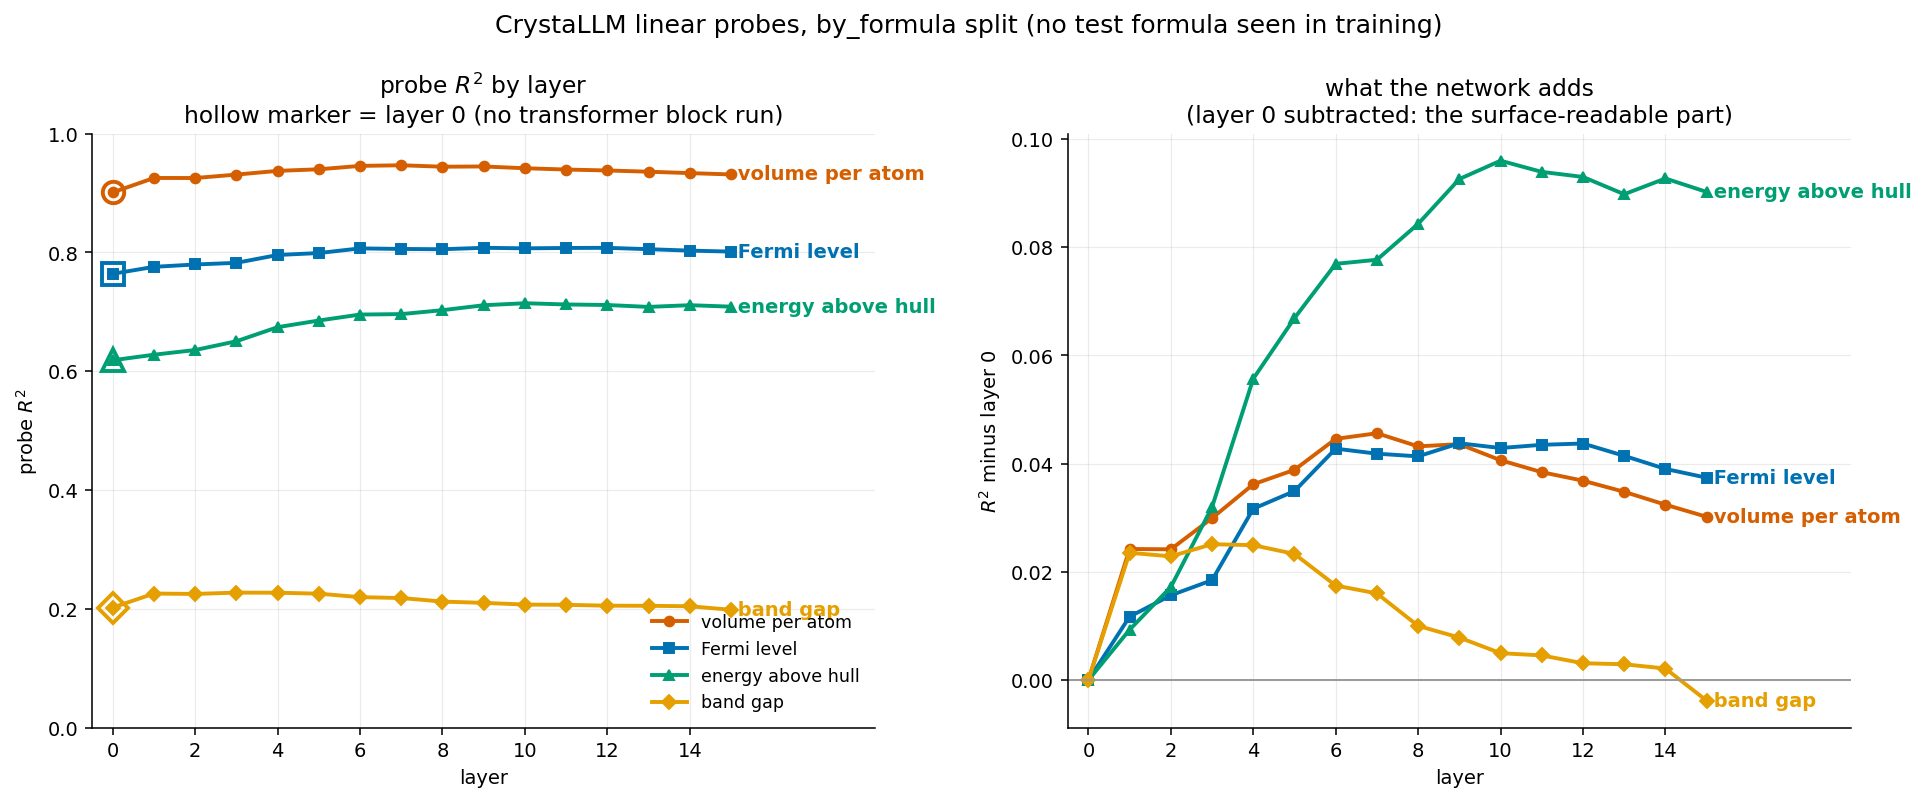
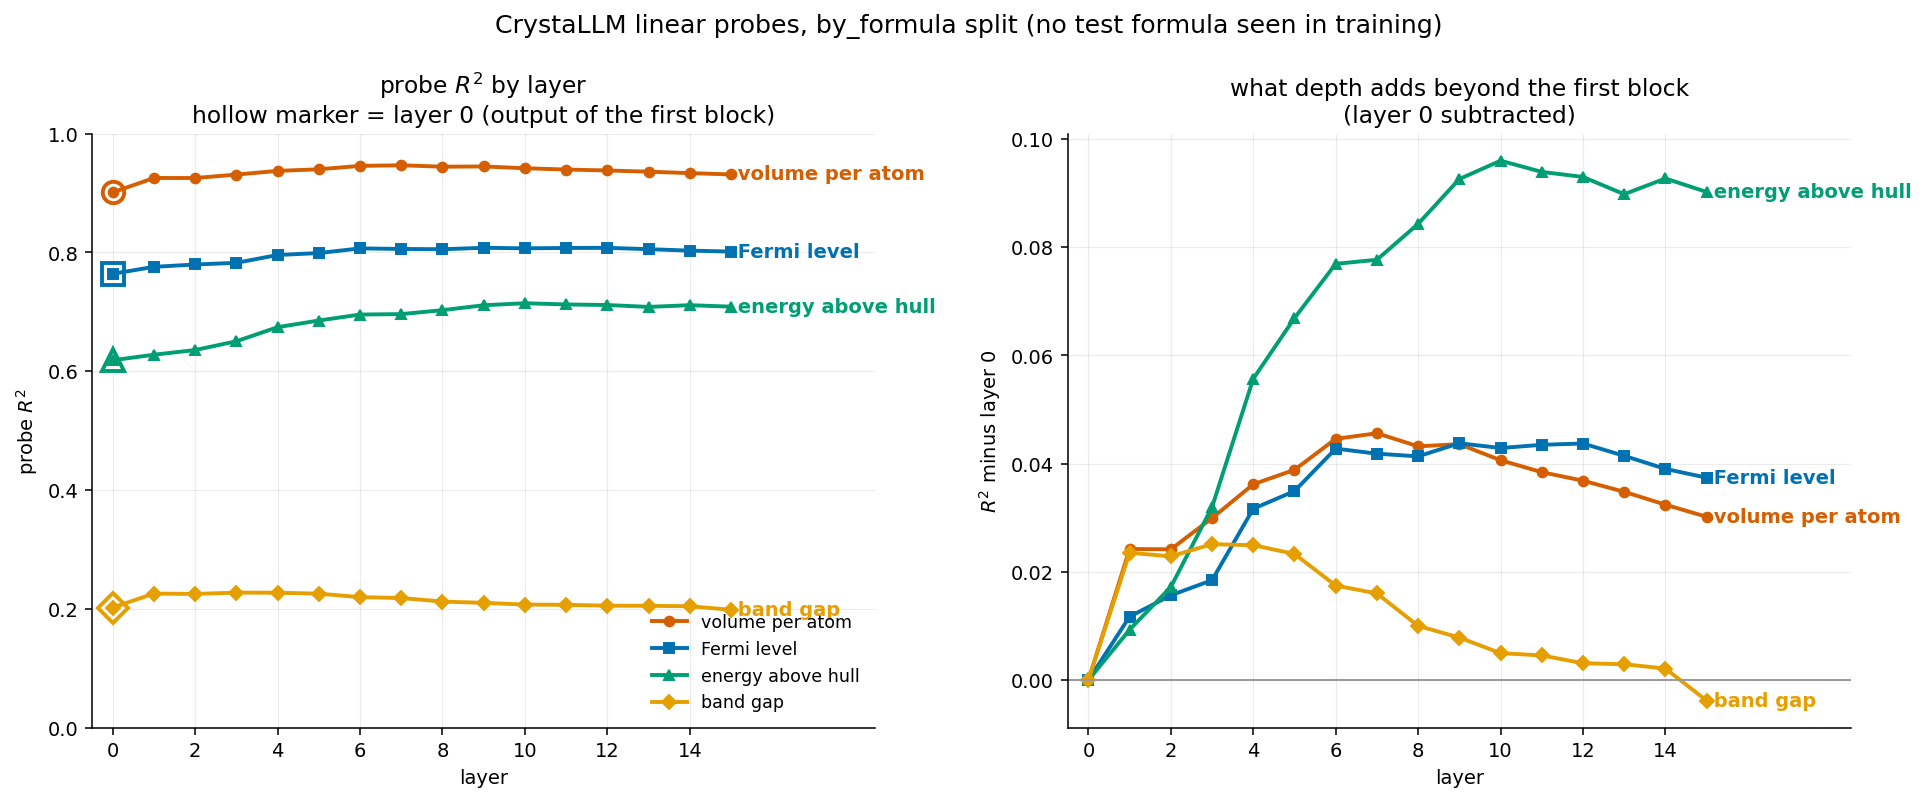
Fix the layer-0 claim; density parses exactly from the CIF text
Layer L is the output of block L, not a pre-block embedding. Density is
cell_volume / n_atoms and both are printed in the CIF: a plain parse gets
R^2 = 1.000000 on 29,832 CIFs, so the probe's 0.947 is not evidence of a
learned representation. Says nothing about whether one exists, or about
steerability. Specific to density; the DFT labels have no parse ceiling.

Claude-Session: https://claude.ai/code/session_01EpX8vDJ69TxFi8fcSiWVWg

Changed region(s): [[0.6234, 0.0936, 0.9039, 0.1561], [0.0935, 0.1248, 0.4052, 0.1561]]

diff --git a/scripts/plots/plot_property_probe_layers.py b/scripts/plots/plot_property_probe_layers.py
@@ -4,10 +4,14 @@
 Reads the CSVs that property_probe.py wrote and draws the depth curves side by side.
 Scored on `by_formula`, so no test formula appeared in training.
 
-Left panel is the raw R^2. Read it against the layer-0 marker, not against zero: layer 0
-is token embeddings plus position with no transformer block run, so whatever it scores is
-readable off the CIF text itself. Right panel subtracts it, leaving what the network
-actually adds.
+Left panel is the raw R^2. Read it against the layer-0 marker, not against zero. Right
+panel subtracts layer 0, leaving what depth adds.
+
+Layer L is the OUTPUT of transformer block L (extract_cif_embeddings.py hooks
+model.transformer.h[l]), so layer 0 already has one attention + MLP behind it. There is
+no pre-block extraction in this pipeline. The right panel is therefore "what blocks 1-15
+add over block 0" -- NOT "what the network adds over the raw text". It does not isolate
+how much of the property is simply printed in the CIF.
 
 Usage:
     python scripts/plots/plot_property_probe_layers.py
@@ -76,14 +80,14 @@ def main():
 
     ax = axes[0]
     ax.set_ylabel("probe $R^2$")
-    ax.set_title("probe $R^2$ by layer\nhollow marker = layer 0 (no transformer block run)")
+    ax.set_title("probe $R^2$ by layer\nhollow marker = layer 0 (output of the first block)")
     ax.set_ylim(0, 1)
     ax.legend(loc="lower right", frameon=False, fontsize=9)
 
     ax = axes[1]
     ax.axhline(0, color="#999", lw=1)
     ax.set_ylabel("$R^2$ minus layer 0")
-    ax.set_title("what the network adds\n(layer 0 subtracted: the surface-readable part)")
+    ax.set_title("what depth adds beyond the first block\n(layer 0 subtracted)")
 
     for ax in axes:
         ax.set_xlabel("layer")

diff --git a/tasks.md b/tasks.md
@@ -54,12 +54,41 @@ training. Four baselines: mean, lookup, composition matrix, embedding.
     energy_above_hull        0.041     0.619   0.715 (L10)      +0.096
     dos_electronic.band_gap  0.150     0.202   0.227 (L3)       +0.025
 
-**Read the L0 column first.** Layer 0 is token embeddings plus position, mean-pooled -- no
-transformer block has run. It already gets R^2 = 0.901 on density, which is expected:
-density is `cell_volume / n_atoms` and the CIF text contains `_cell_volume` and the atom
-site lines outright. The depth curve adds only +0.046 on top. Same shape on efermi (0.764
-at L0) and energy_above_hull (0.619). These are largely surface-readable from the tokens,
-not properties the network computes -- the same trap as the Wyckoff t-SNE plots.
+**Read the L0 column first.** Layer L here is the OUTPUT of transformer block L --
+`extract_cif_embeddings.py` hooks `model.transformer.h[l]` -- so layer 0 already has one
+attention + MLP behind it. (An earlier version of this note said layer 0 was token
+embeddings plus position with no block run. That was wrong; there is no pre-block
+extraction in this pipeline.)
+
+Even so, block 0 alone gets R^2 = 0.901 on density, 0.764 on efermi and 0.619 on
+energy_above_hull, and the remaining fifteen blocks add only +0.046, +0.044 and +0.096.
+Almost everything these probes read is available after a single block.
+
+**For density, the answer is printed in the input.** `density_atomic` is defined as
+`cell_volume / n_atoms` (exact to 0.0 in `density_atomic_v1.parquet`), and both terms are
+literally in the CIF. Parsing them out -- no model, no regression, no fitting -- on 29,832
+corpus CIFs:
+
+    100% of corpus CIFs carry a literal _cell_volume tag
+    _cell_volume / (sum of _atom_site_symmetry_multiplicity)   R^2 = 1.000000, 100% exact
+    _cell_volume / (sum of counts in _chemical_formula_sum)     R^2 = 1.000000, 100% exact
+
+**What that does and does not mean.** It removes the probe as evidence: 0.947 cannot argue
+the model learned a density representation when a trivial parse gets 1.000. Any probe
+score at or below the parse ceiling is consistent with the embedding merely retaining two
+printed numbers.
+
+It does NOT show the model has no internal density representation, and it does not say
+density is unsteerable. A model can perfectly well build an internal representation of a
+quantity that is also written down, and steering could still change which digits it emits
+for `_cell_volume` and the multiplicity column. Both remain open; the probe just cannot
+settle them either way.
+
+**This is specific to density.** efermi, band gap and energy_above_hull are DFT labels
+that appear nowhere in a CIF, so their probes have no parse ceiling. That is also why
+efermi reaches 0.764 at block 0 while the composition baseline is only 0.316 -- the pooled
+embedding carries cell lengths, angles, space group and site positions, not just
+stoichiometry.
 
 Band gap is the exception and the honest case: L0 only reaches 0.202, and the whole model
 only gets to 0.227. It is the one property here that is neither surface-readable nor
